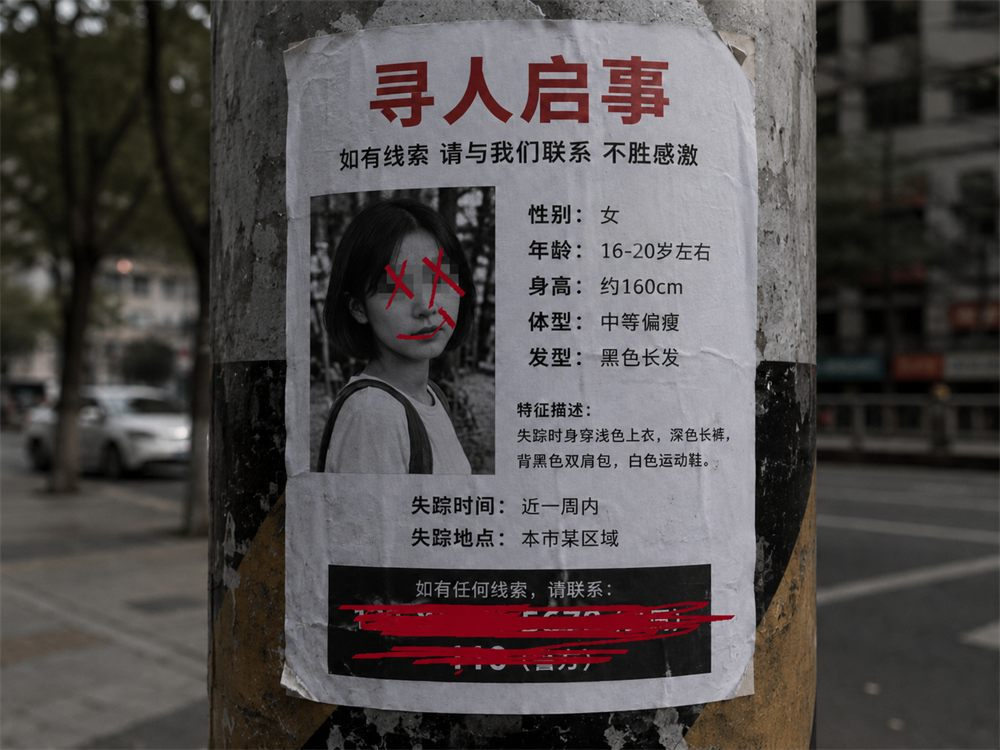
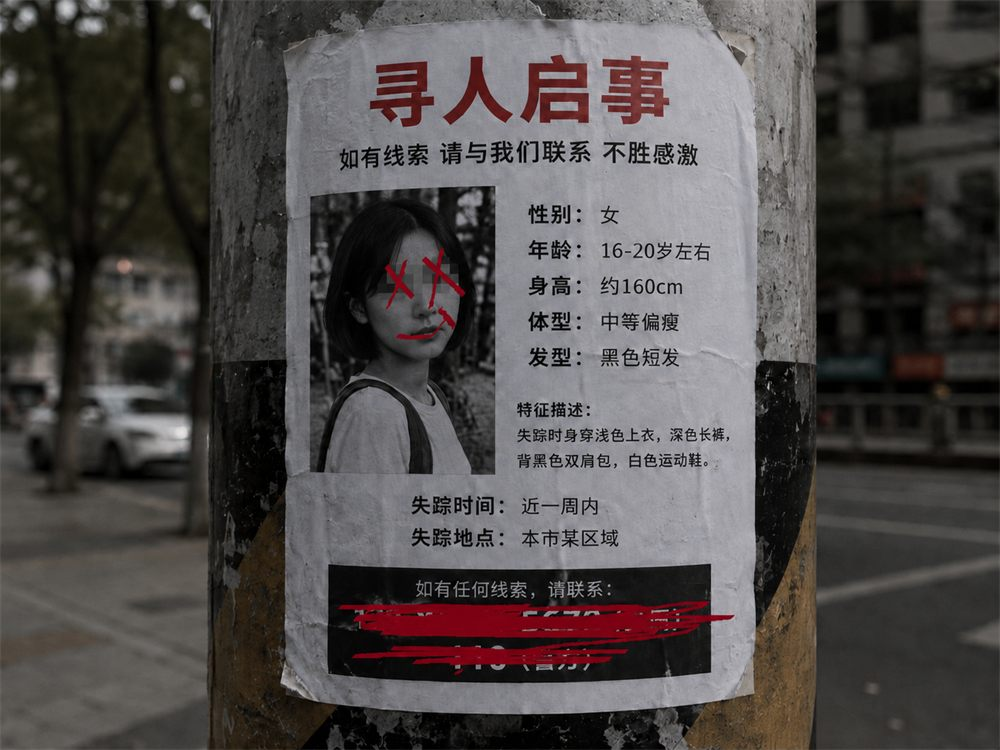
Fix text issues

diff --git a/src/pages/dongyang/posts/MingchuanThirdMiddleCaseFour.jsx b/src/pages/dongyang/posts/MingchuanThirdMiddleCaseFour.jsx
@@ -14,7 +14,7 @@ const paragraphs = [
   '听到我的话，小Y露出惶恐的神色。但她并不惊讶。',
   '其实监控拍到了一些东西，但警方现在无法公开。因为那段影像的内容无法用人类的常识解释。',
   '刘欣怡最后出现在画面里，是前天晚上十一点。',
-  '她的身上没有穿着任何衣物，赤身裸体地，沿着通往校门的水泥路爬行，双手的关节反折成一个扭曲的角度，胸腔病态地向前迭出，像是正在被什么东西拖拽一样。正常人做出这个姿势至少也是四肢骨折，但刘欣怡却在以一个很快的速度移动，最后她到达了学校门口的花圃当中',
+  '她的身上没有穿着任何衣物，赤身裸体地，沿着通往校门的水泥路爬行，双手的关节反折成一个扭曲的角度，胸腔病态地向前迭出，像是正在被什么东西拖拽一样。正常人做出这个姿势至少也是四肢骨折，但刘欣怡却在以一个很快的速度移动，最后她到达了学校门口的花圃当中。',
   '她在那里停留了好一会儿，随后脖子一寸一寸地扭动一起来，逐渐转向天空的方向。隔着老旧监控跳动的雪花，我依然能感受她脸上流露的绝望和惊恐。我希望这个时候她已经死去了，这样至少她就不必经受接下来我看到的一切——',
   '她的胸口突然裂开了。有什么东西从她的胸腔深处钻了出来，把她的脏器和肋骨像豆腐一样从内向外地剥开，我甚至能看到她尚在顽强搏动的心脏，被紫黑色的动脉血管包裹着，从这些纵横交错的血管上方，一朵黑色的莲花在她跳动的心上以肉眼可见的速度在生长着。',
   '就在花蕊完全盛放的那一瞬间，刘欣怡的整个身体像是一片被火焰灼烧过的花叶，迅速地卷曲、崩塌、融化、折叠，最后变成了一滩黑色的液体，完全渗入了泥土当中。',

diff --git a/src/components/MingchuanFloatingAds.jsx b/src/components/MingchuanFloatingAds.jsx
@@ -495,7 +495,11 @@ function FortuneAd({ close, placement }) {
       return;
     }
 
-    if (!/^[\u4e00-\u9fff]{2,5}$/.test(normalizedName) && !/^[\u4e00-\u9fff]{1,4}[·•][\u4e00-\u9fff]{1,6}$/.test(normalizedName)) {
+    const isChineseName = /^[\u4e00-\u9fff]{2,5}$/.test(normalizedName);
+    const isChineseNameWithSeparator = /^[\u4e00-\u9fff]{1,4}[·•][\u4e00-\u9fff]{1,6}$/.test(normalizedName);
+    const isEnglishName = /^(?=.{2,40}$)[A-Za-z]+(?:[ '-][A-Za-z]+){0,3}$/.test(normalizedName);
+
+    if (!isChineseName && !isChineseNameWithSeparator && !isEnglishName) {
       setMessage('请输入合法姓名。');
       return;
     }

diff --git a/src/pages/InternalForumRitualQuestions.jsx b/src/pages/InternalForumRitualQuestions.jsx
@@ -3,7 +3,7 @@ import { Link } from 'react-router-dom';
 import { sha256 } from '../utils/hash';
 
 const INTRO_COPY = {
-  title: '恭喜你，调查员',
+  title: '恭喜你，叶诗隐',
   body: [
     '栽种仪式已被你中断，世人很快就会知道全部的真相。',
     '在结束这次调查前，请先完成一次理智评估。',
